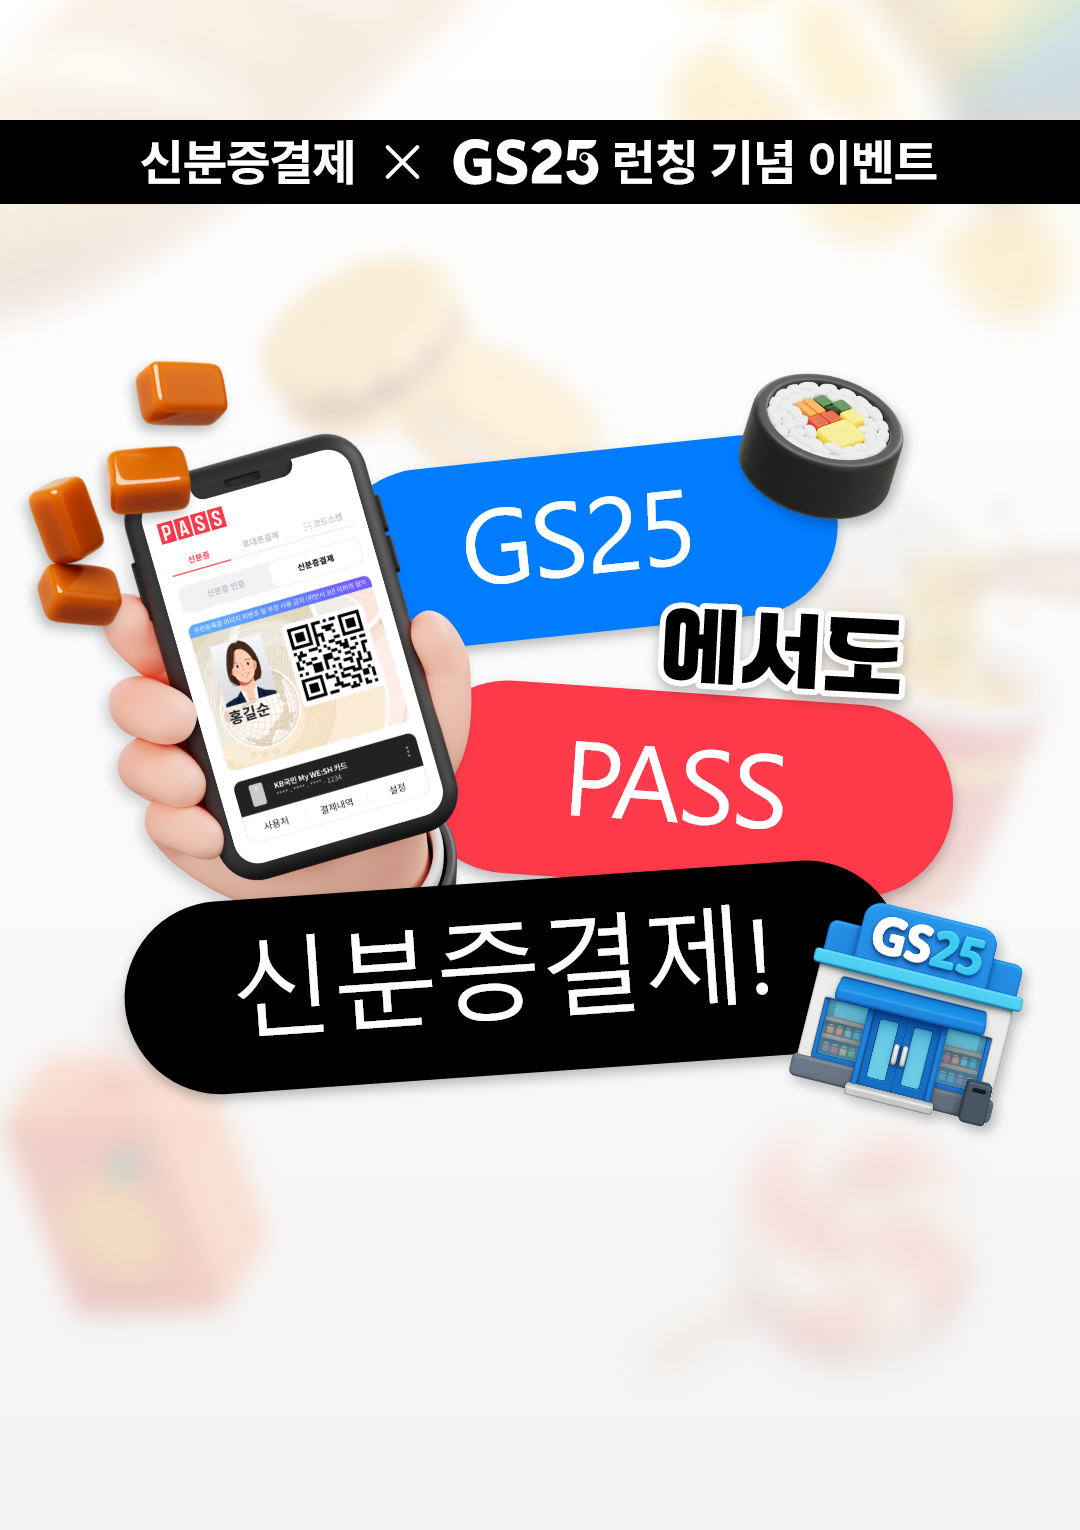
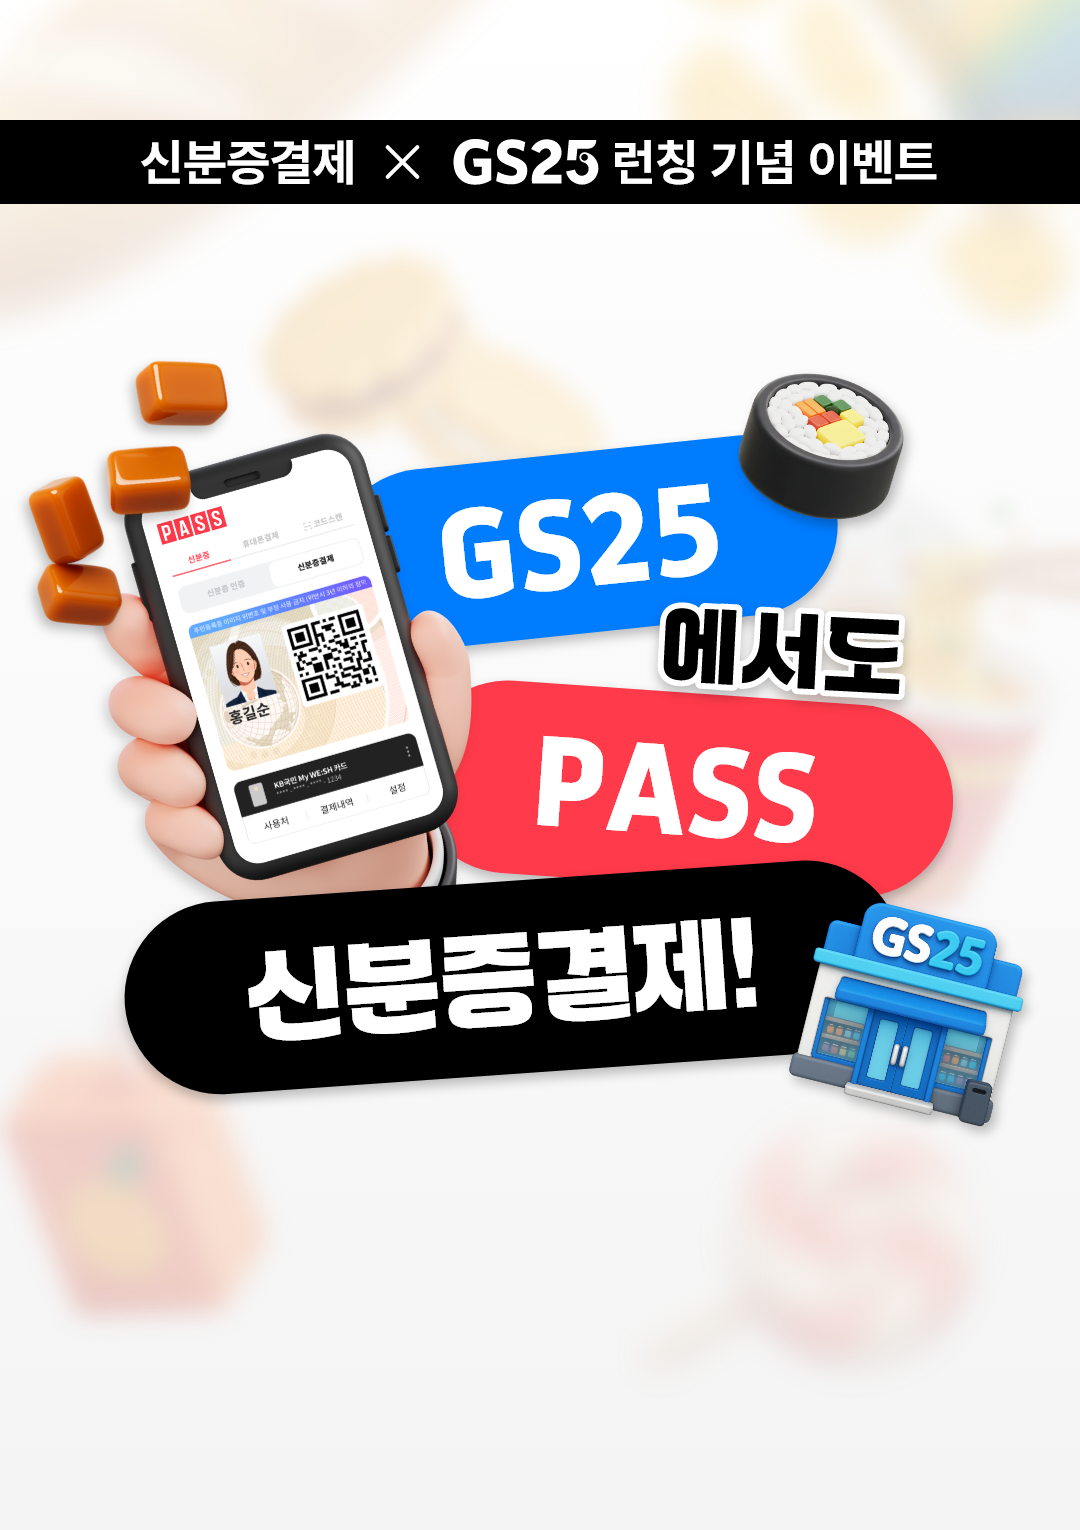
폰트,컬러 수정.

Changed region(s): [[0.2139, 0.5837, 0.7333, 0.7065], [0.3972, 0.3072, 0.6722, 0.3993], [0.4889, 0.4608, 0.7639, 0.5529]]

diff --git a/event/ev_251117_passpay/html/ev_passpay_251117.html b/event/ev_251117_passpay/html/ev_passpay_251117.html
@@ -67,7 +67,7 @@
 		/* 응모자수 */
 		.ev_251117 .count_wrap {display:flex; flex-direction:column; gap:1.70833em; padding:1.70833em 1.25em 2.5em 1.25em; background-color:#00D4EA;}
 		.ev_251117 .count_wrap p.txt {color:#fff; font-size:1.16666em; line-height:1.35714em; font-weight:bold; letter-spacing:-0.025em; text-shadow:0 1px 2px rgba(0,0,0,0.16);}
-		.ev_251117 .count_wrap div span {display:inline-block; font-size:1.16666em; line-height:1.35714em; font-weight:bold;}
+		.ev_251117 .count_wrap div span {display:inline-block; color:#031458; font-size:1.16666em; line-height:1.35714em; font-weight:bold;}
 		.ev_251117 .count_wrap div strong.count{color:#fff; font-size:1.66666em; font-weight:bold; text-shadow:0 1px 2px rgba(0,0,0,0.16);}
 		/* // 응모자수 */
 
@@ -188,7 +188,7 @@
 						<div class="step"><span>STEP 2</span></div>
 						<p class="txt">
 							이벤트 기간 내<br />
-							GS25 오프라인 매장에서<br />
+							<strong>GS25 오프라인 매장</strong>에서<br />
 							PASS 신분증결제로<br />
 							5,000원 이상<br />
 							결제하면 참여 인정!
